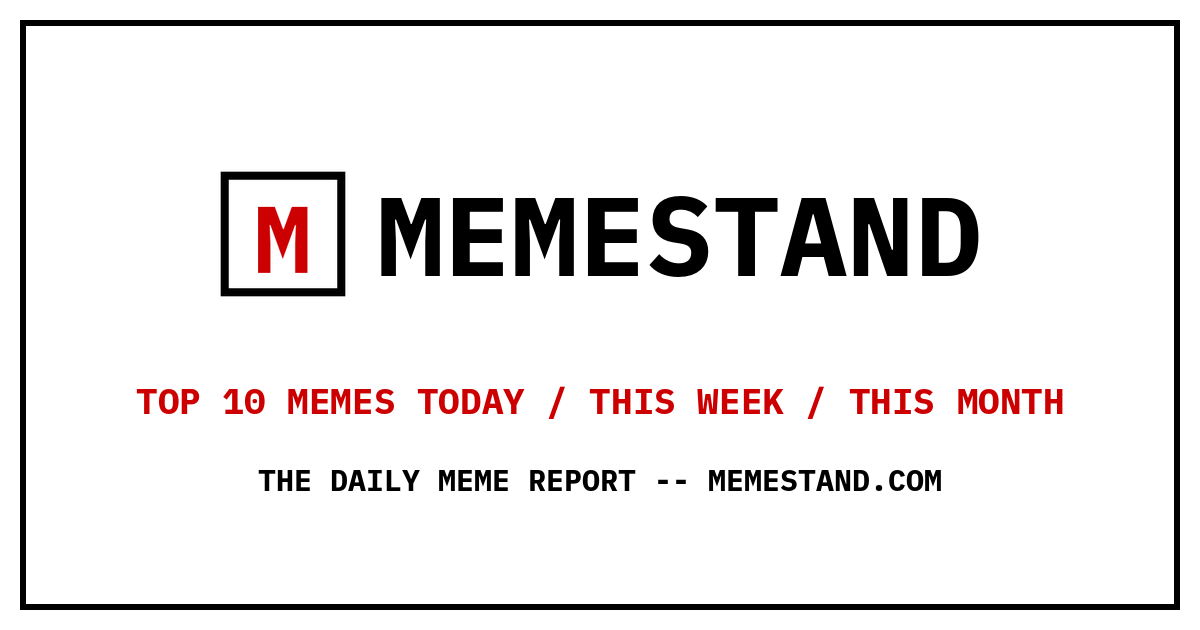
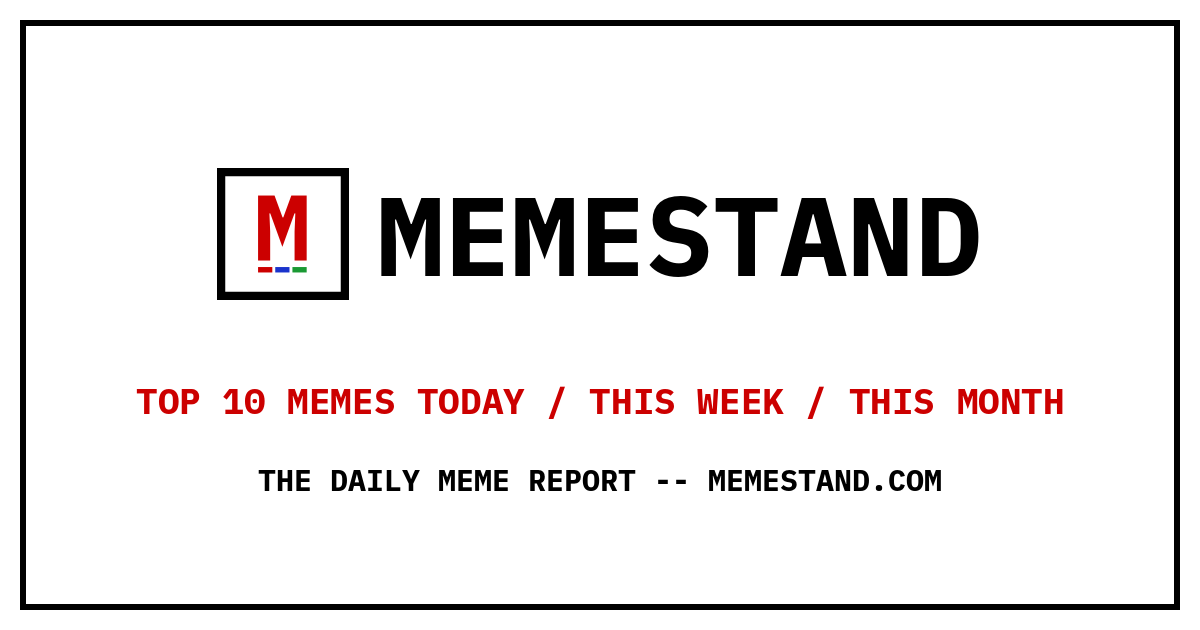
Add the red, blue, and green bars under the M mark
The profile mark keeps its white tile, black frame, and red M. The M shifts up so three short bars fit under it inside the frame: red, blue, and green, spanning the letter. Favicon, apple-touch icon, and the share-card tile are rendered from that same SVG.

Changed region(s): [[0.1542, 0.2413, 0.3083, 0.4825]]

diff --git a/tools/make_icons.py b/tools/make_icons.py
@@ -1,13 +1,14 @@
 #!/usr/bin/env python3
 """Generate favicon.svg/.ico, apple-touch-icon.png and og-default.png from one M.
 
-The mark is the IBM Plex Mono Bold "M" already used for apple-touch-icon.png:
-a white tile, a black border, and a red M. favicon.svg uses that glyph's outline
-so the header, the favicon, and the share image stay the same mark.
+The mark is the IBM Plex Mono Bold "M": a white tile, a black border, a red M,
+and three short bars under the M (red, blue, green). favicon.svg is that mark,
+and the favicon, apple-touch icon, header, and share image all use it.
 
 The font is OFL and is not committed. Set MEMESTAND_PLEX or pass a path.
+Raster copies are rendered from the SVG (cairosvg) so they cannot drift.
 """
-import os, pathlib, sys
+import io, os, pathlib, sys
 from fontTools.pens.boundsPen import BoundsPen
 from fontTools.pens.svgPathPen import SVGPathPen
 from fontTools.ttLib import TTFont
@@ -21,9 +22,13 @@ CANDIDATES = [
     "/tmp/fonts/IBMPlexMono-Bold.ttf",
 ]
 RED = "#cc0000"
+BLUE = "#1a33cc"
+GREEN = "#1a9933"
 # Ink box of the M on the 180px apple-touch icon this file originally wrote.
 # Scaled into the 64 viewBox so the outline sits where the raster M sits.
 INK_180 = (56, 53, 122, 142)
+# Inner edge of the 4-unit stroke on the 64 viewBox.
+INNER_TOP, INNER_BOT = 4.0, 60.0
 
 
 def font_path():
@@ -53,64 +58,123 @@ def round_path(commands):
     return re.sub(r"-?\d+\.\d+", repl, commands)
 
 
-def write_svg(path_d, bounds):
+def mark_geometry(bounds):
+    """Black frame and red M stay put horizontally. The M shifts up just enough
+    that it and the three bars share the padding inside the frame.
+
+    Each bar is 1/12 of the M's height. Together they span the M, with a small
+    gap between bars and a similar gap under the letter.
+    """
     x0, y0, x1, y1 = bounds
-    # Map the 180px ink box into the 64 viewBox used by the original favicon.svg.
     s = 64 / 180
     left, top, right, bottom = (v * s for v in INK_180)
     scale = ((right - left) / (x1 - x0) + (bottom - top) / (y1 - y0)) / 2
     tx = left - x0 * scale
     ty = top + y1 * scale
+    # Match the transform that is written into the SVG, then measure the ink.
+    scale = float(f"{scale:.5f}")
+    tx = float(f"{tx:.2f}")
+    ty = float(f"{ty:.2f}")
+    ink_left = tx + scale * x0
+    ink_right = tx + scale * x1
+    ink_top = ty - scale * y1
+    ink_bottom = ty - scale * y0
+    m_w = ink_right - ink_left
+    m_h = ink_bottom - ink_top
+    bar_h = m_h / 12
+    gap_y = bar_h * 1.2
+    gap_x = m_w * 0.06
+    bar_w = (m_w - 2 * gap_x) / 3
+    content_h = m_h + gap_y + bar_h
+    pad = (INNER_BOT - INNER_TOP - content_h) / 2
+    if pad < 2:
+        sys.exit("bars do not fit inside the frame")
+    new_top = INNER_TOP + pad
+    ty -= ink_top - new_top
+    bar_top = new_top + m_h + gap_y
+    bars = []
+    x = ink_left
+    for color in (RED, BLUE, GREEN):
+        bars.append((x, bar_top, bar_w, bar_h, color))
+        x += bar_w + gap_x
+    return scale, tx, ty, bars
+
+
+def write_svg(path_d, bounds):
+    scale, tx, ty, bars = mark_geometry(bounds)
+    rects = "".join(
+        f'<rect x="{x:.2f}" y="{y:.2f}" width="{w:.2f}" height="{h:.2f}" fill="{color}"/>'
+        for x, y, w, h, color in bars
+    )
     svg = (
         '<svg xmlns="http://www.w3.org/2000/svg" viewBox="0 0 64 64">'
         '<rect width="64" height="64" fill="#fff"/>'
         '<rect x="2" y="2" width="60" height="60" fill="none" stroke="#000" stroke-width="4"/>'
         f'<path fill="{RED}" transform="matrix({scale:.5f} 0 0 {-scale:.5f} {tx:.2f} {ty:.2f})" d="{path_d}"/>'
-        "</svg>\n"
+        f"{rects}</svg>\n"
     )
     (ROOT / "favicon.svg").write_text(svg)
+    return svg
 
 
-def icon(font_file, size):
-    im = Image.new("RGB", (size, size), "white")
-    d = ImageDraw.Draw(im)
-    w = max(1, size // 16)
-    d.rectangle([w // 2, w // 2, size - 1 - w // 2, size - 1 - w // 2], outline="black", width=w)
-    f = ImageFont.truetype(font_file, int(size * 0.72))
-    d.text((size / 2, size / 2 + size * 0.02), "M", font=f, fill=RED, anchor="mm")
-    return im
+def render_svg(svg, size):
+    from cairosvg import svg2png
+    png = svg2png(bytestring=svg.encode(), output_width=size, output_height=size)
+    im = Image.open(io.BytesIO(png)).convert("RGBA")
+    out = Image.new("RGB", im.size, "white")
+    out.paste(im, mask=im.split()[-1])
+    return out
 
 
-def write_og(font_file, mark):
-    og = Image.new("RGB", (1200, 630), "white")
-    d = ImageDraw.Draw(og)
-    d.rectangle([20, 20, 1179, 609], outline="black", width=6)
+def save_ico(svg):
+    # The largest image has to be first. Pillow drops any size bigger than it.
+    sizes = (48, 32, 16)
+    images = [render_svg(svg, size) for size in sizes]
+    images[0].save(
+        ROOT / "favicon.ico",
+        format="ICO",
+        sizes=[(size, size) for size in sizes],
+        append_images=images[1:],
+    )
+
+
+def write_og(font_file, tile):
+    """Replace the mark tile on the share image. Redrawing the whole card
+    re-rasterizes MEMESTAND, and this font does not match those pixels."""
+    tile_size, gap, top = 132, 28, 168
+    if tile.size != (tile_size, tile_size):
+        tile = tile.resize((tile_size, tile_size), Image.Resampling.LANCZOS)
+    dest = ROOT / "og-default.png"
     bold = ImageFont.truetype(font_file, 112)
     word = "MEMESTAND"
-    word_w = d.textbbox((0, 0), word, font=bold)[2]
-    tile_size, gap = 132, 28
-    tile = mark.resize((tile_size, tile_size), Image.Resampling.LANCZOS)
-    total = tile_size + gap + word_w
-    left = int((1200 - total) / 2)
-    top = 168
+    existed = dest.is_file()
+    if existed:
+        og = Image.open(dest).convert("RGB")
+    else:
+        og = Image.new("RGB", (1200, 630), "white")
+        d = ImageDraw.Draw(og)
+        d.rectangle([20, 20, 1179, 609], outline="black", width=6)
+        d.text((600, 400), "TOP 10 MEMES TODAY / THIS WEEK / THIS MONTH",
+               font=ImageFont.truetype(font_file, 36), fill=RED, anchor="mm")
+        d.text((600, 480), "THE DAILY MEME REPORT -- MEMESTAND.COM",
+               font=ImageFont.truetype(font_file, 30), fill="black", anchor="mm")
+    word_w = ImageDraw.Draw(og).textbbox((0, 0), word, font=bold)[2]
+    left = int((og.size[0] - (tile_size + gap + word_w)) / 2)
+    if not existed:
+        ImageDraw.Draw(og).text(
+            (left + tile_size + gap, top + tile_size / 2), word, font=bold, fill="black", anchor="lm")
     og.paste(tile, (left, top))
-    d.text((left + tile_size + gap, top + tile_size / 2), word, font=bold, fill="black", anchor="lm")
-    d.text((600, 400), "TOP 10 MEMES TODAY / THIS WEEK / THIS MONTH",
-           font=ImageFont.truetype(font_file, 36), fill=RED, anchor="mm")
-    d.text((600, 480), "THE DAILY MEME REPORT -- MEMESTAND.COM",
-           font=ImageFont.truetype(font_file, 30), fill="black", anchor="mm")
-    og.save(ROOT / "og-default.png", optimize=True)
+    og.save(dest, optimize=True)
 
 
 def main():
     src = font_path()
     font = TTFont(src)
     raw, bounds = m_path(font)
-    write_svg(round_path(raw), bounds)
-    mark = icon(src, 256)
-    mark.save(ROOT / "favicon.ico", sizes=[(16, 16), (32, 32), (48, 48)])
-    icon(src, 180).save(ROOT / "apple-touch-icon.png")
-    write_og(src, icon(src, 180))
+    svg = write_svg(round_path(raw), bounds)
+    save_ico(svg)
+    render_svg(svg, 180).save(ROOT / "apple-touch-icon.png")
+    write_og(src, render_svg(svg, 132))
     print("icons written from", src)
 
 
